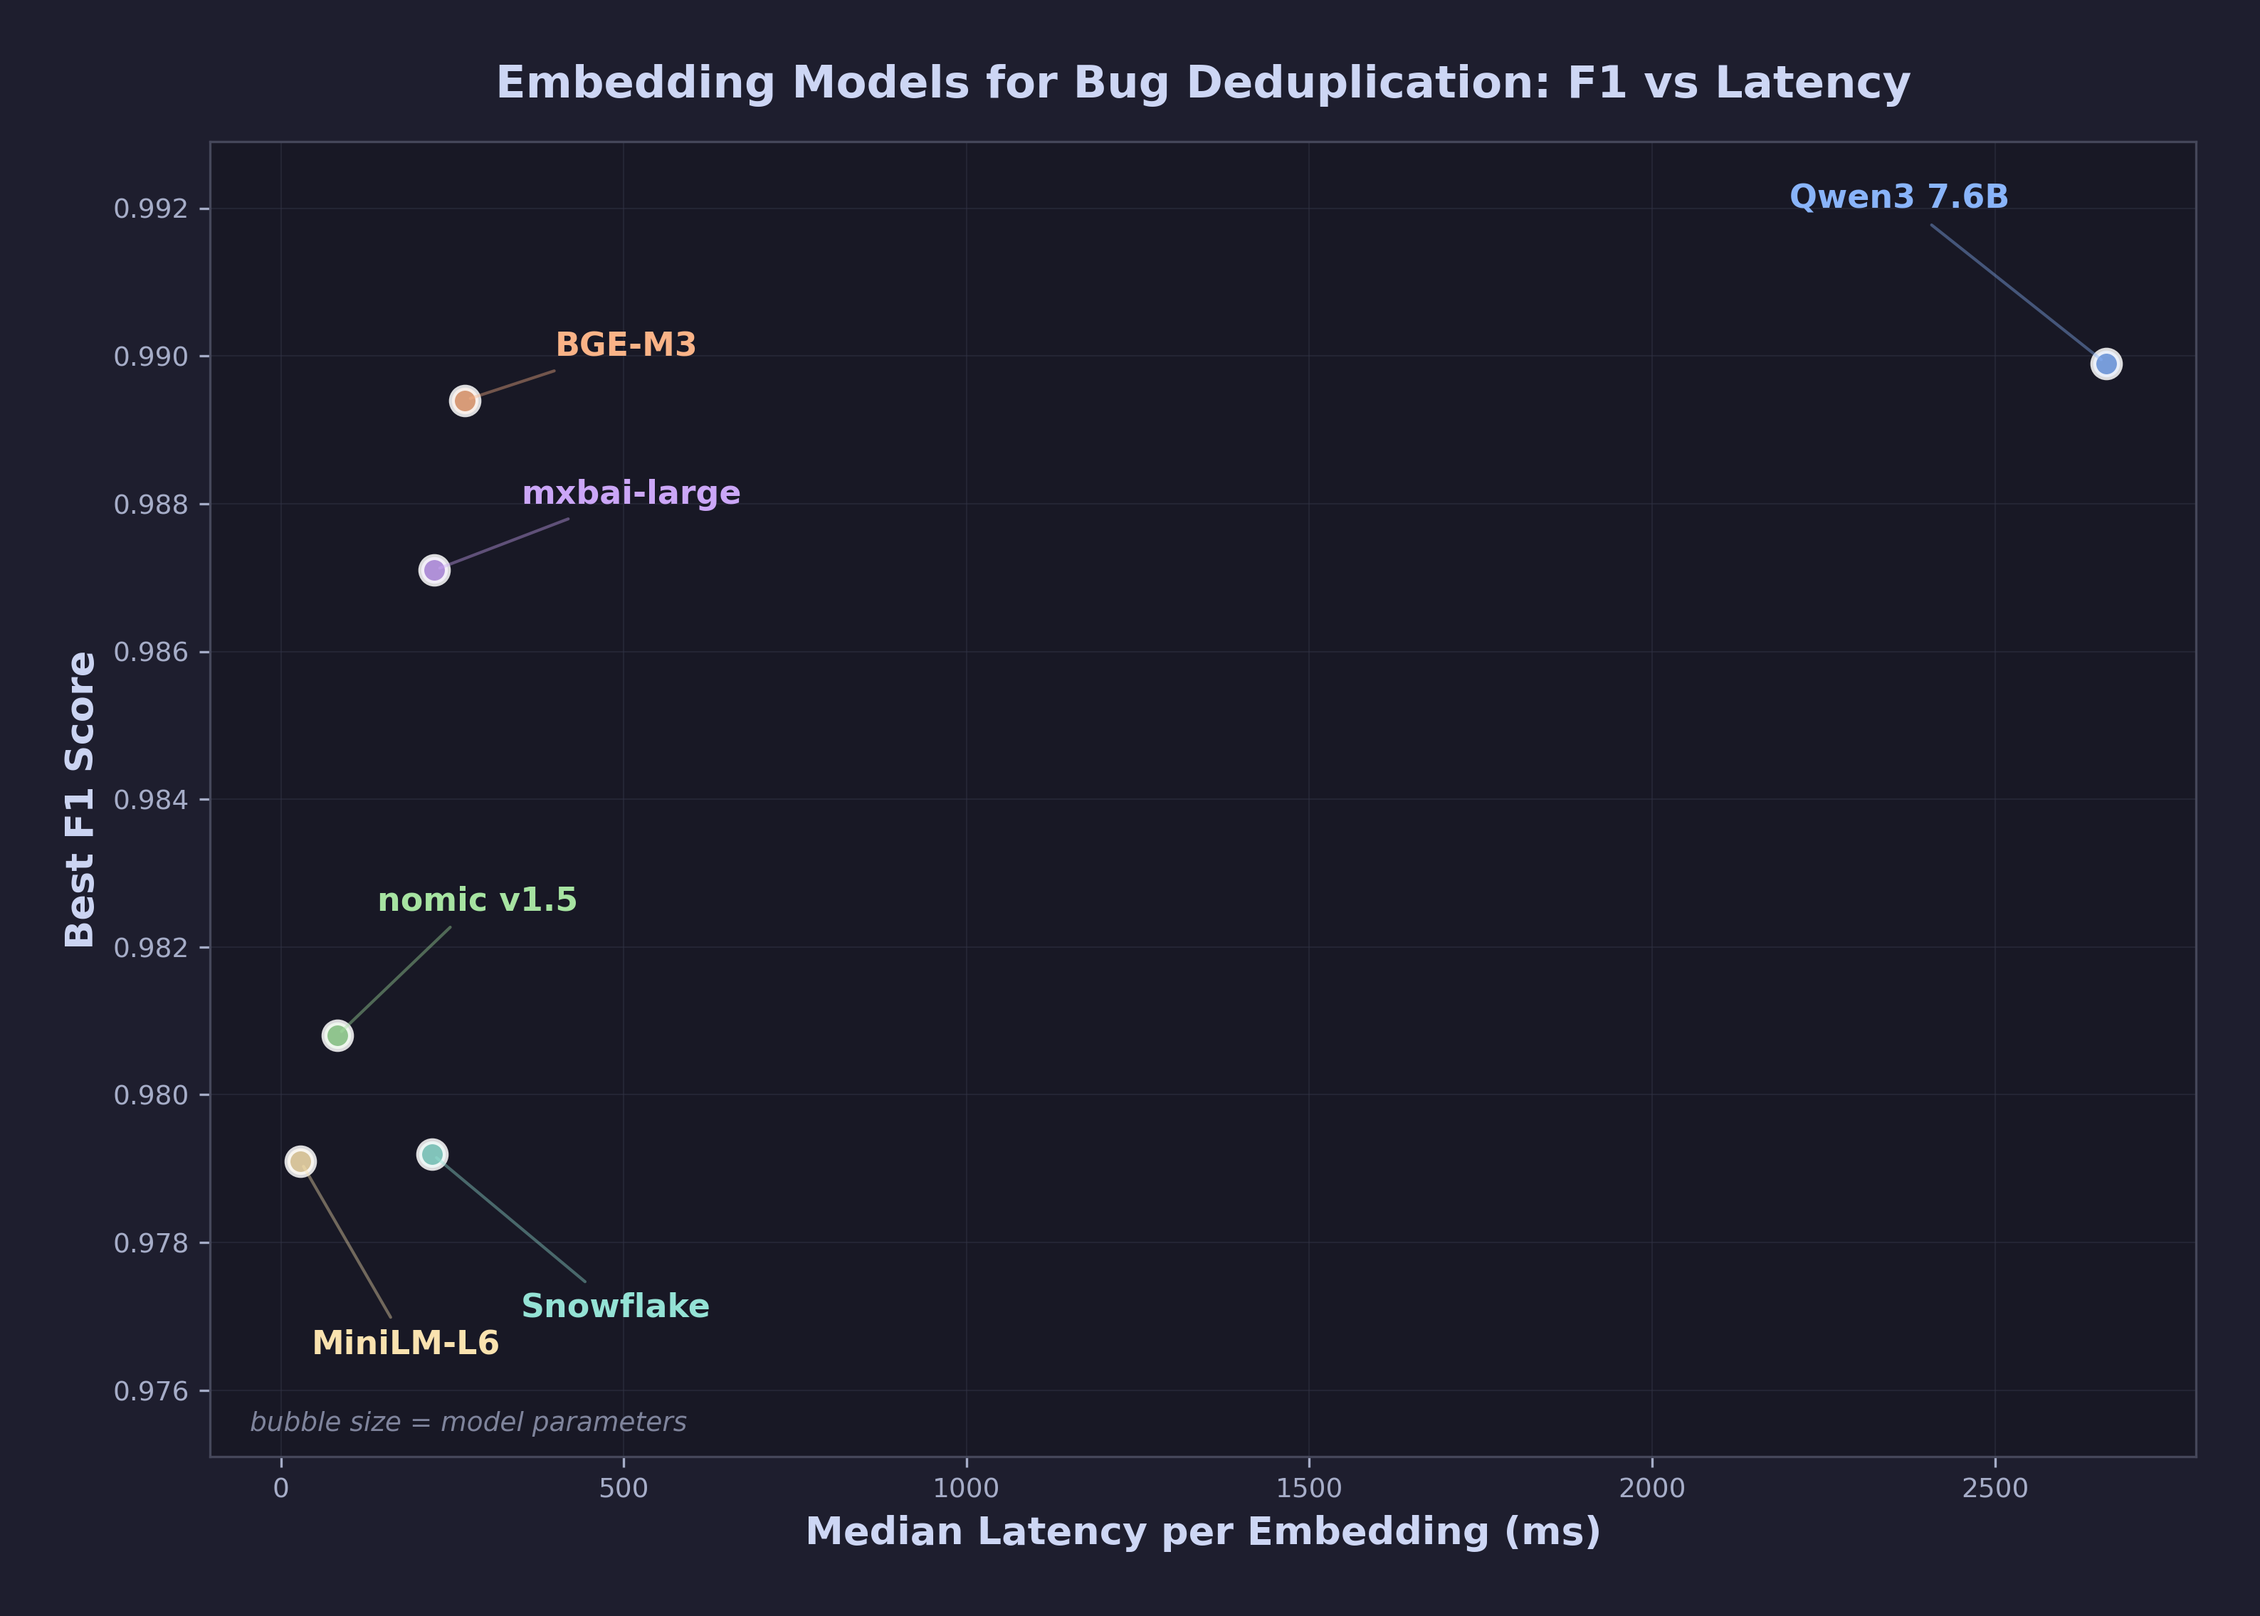
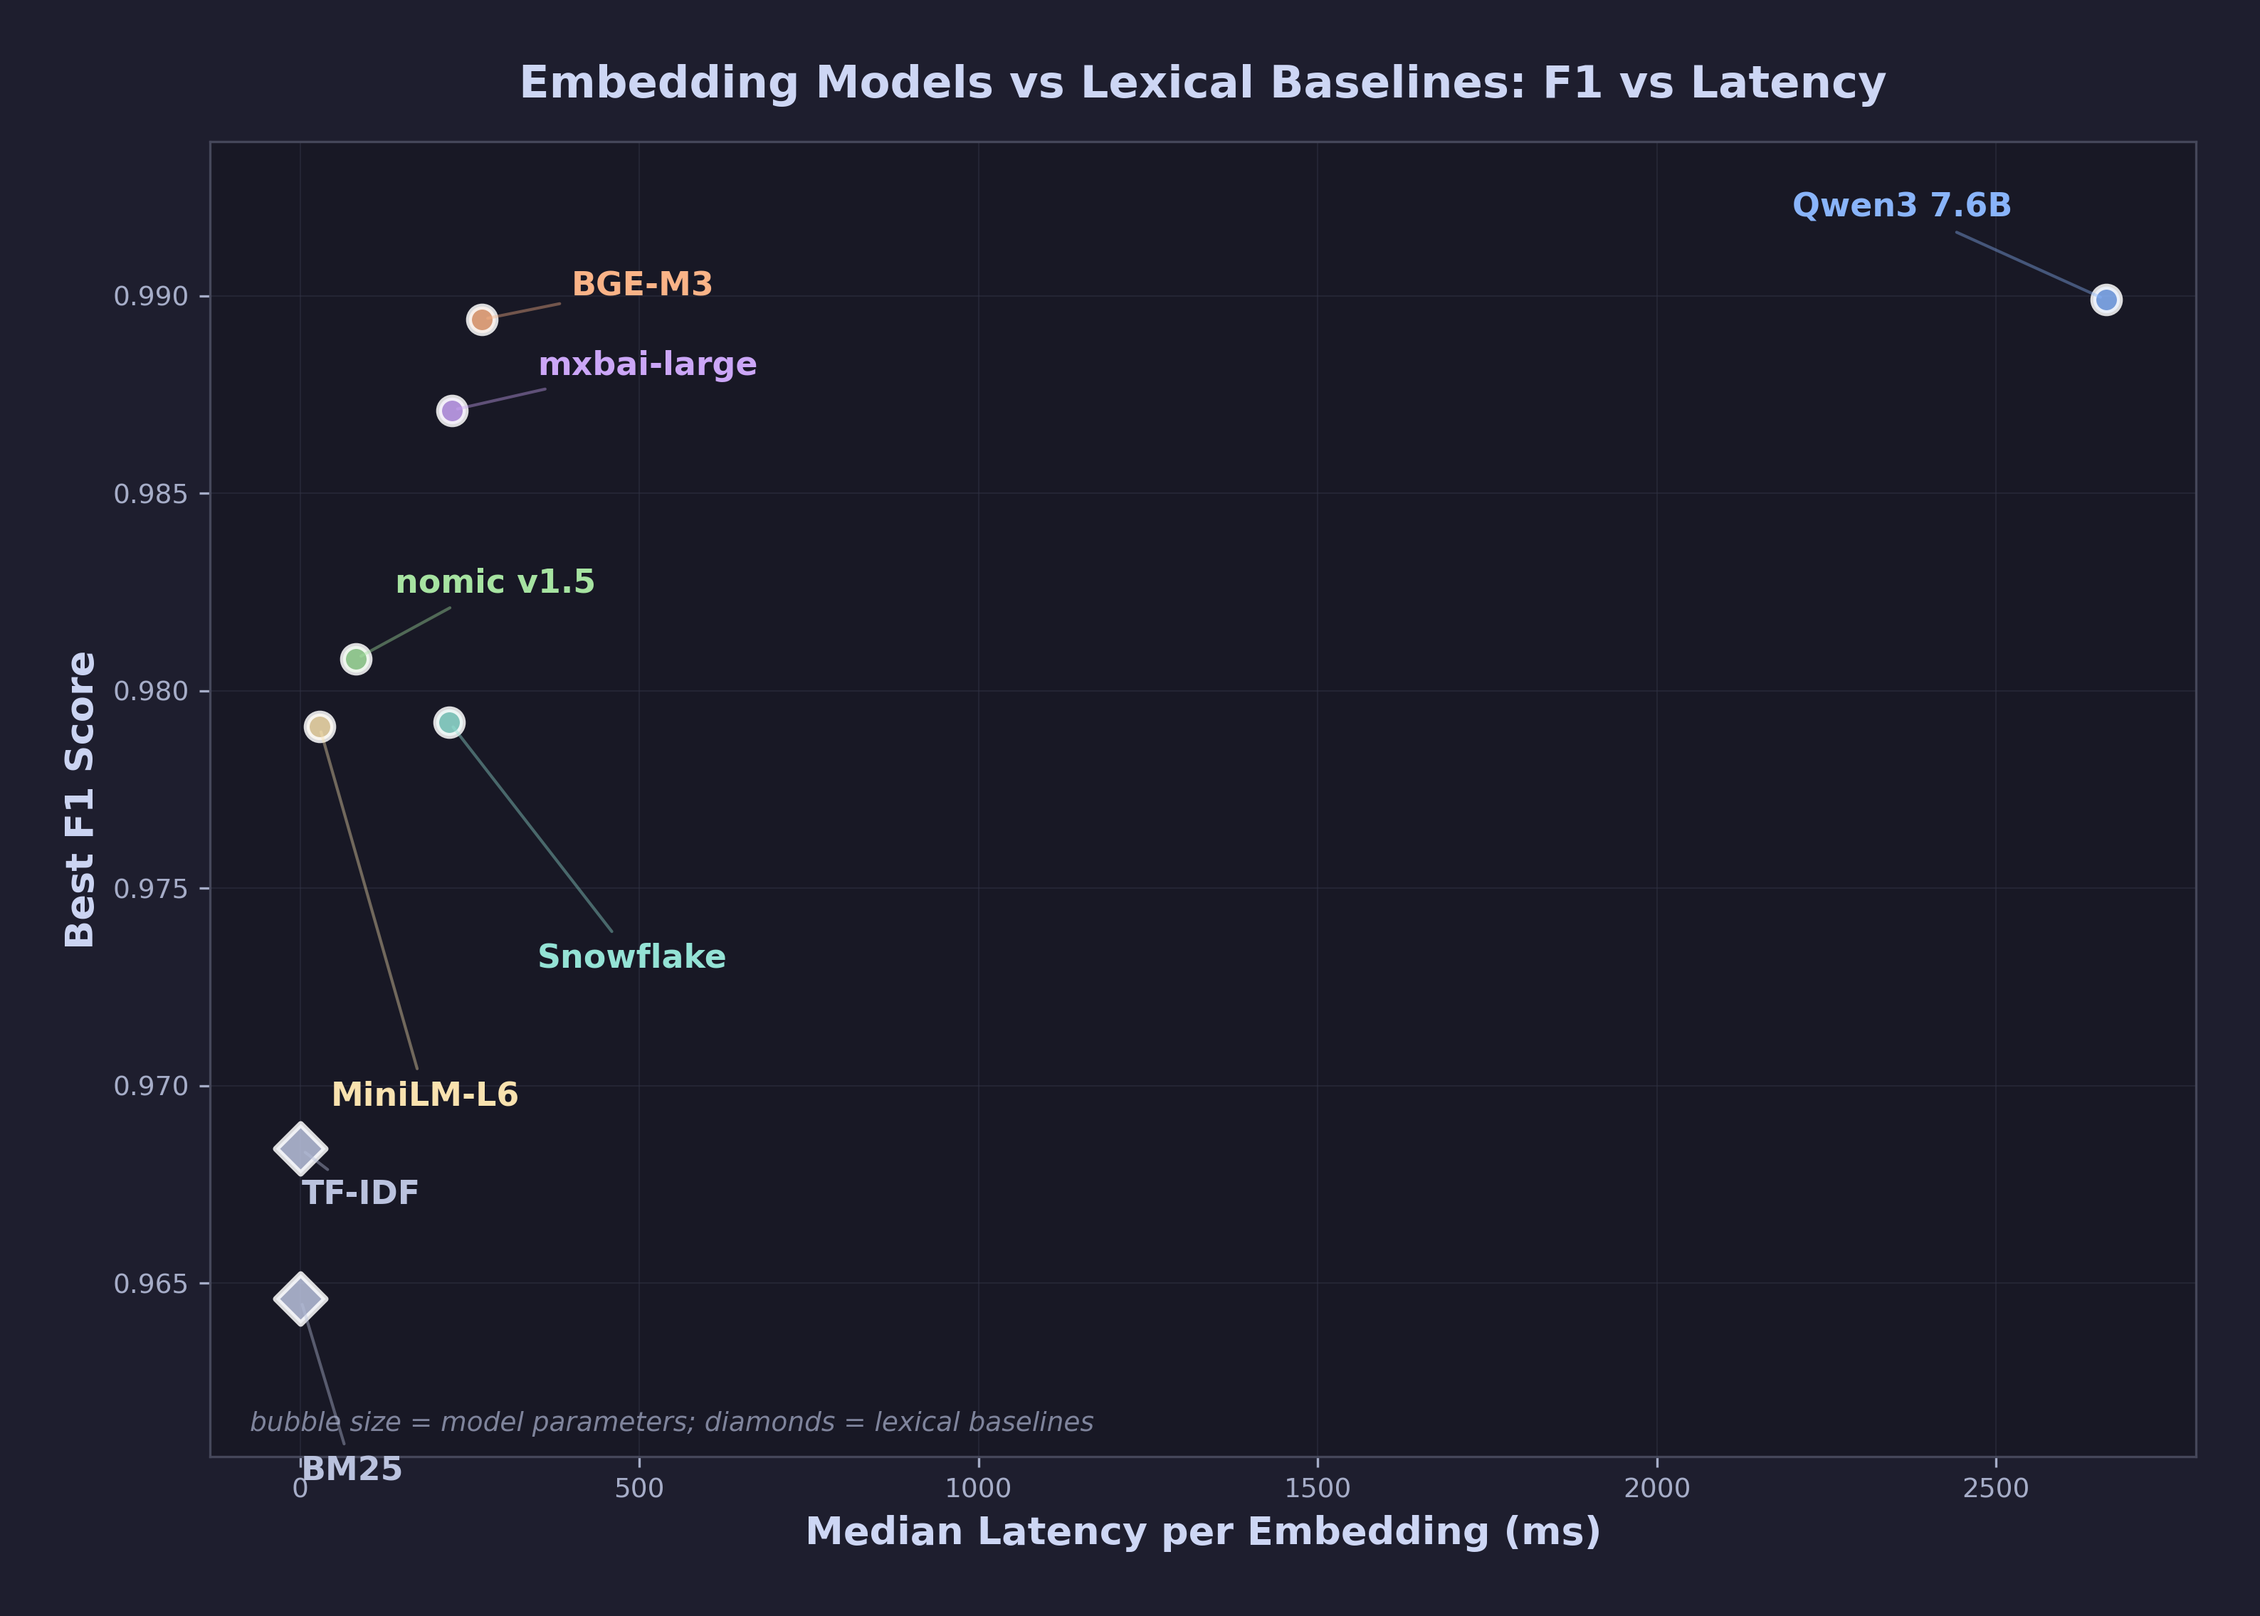
figures: add BM25/TF-IDF to hero scatter + new fig_14 Bugzilla ranking
The v4 article's BM25-on-Bugzilla finding was completely invisible
in the figures — all charts were embedding-only. Two updates:

- fig_01 hero scatter: adds BM25 (0.965) and TF-IDF (0.969) as
  diamond markers at ~1ms latency. Makes the "lexical is
  competitive at 1000x less cost" claim visible on the hero chart.

- fig_14 (new): horizontal bar chart of all 8 methods ranked by
  Bugzilla F1. BM25 sits at #3, with a dashed line showing that
  4 of 6 embedding models fall below it.

Hero PNG in docs/ also refreshed to match.

diff --git a/analysis/fig_14_bugzilla_ranking.py b/analysis/fig_14_bugzilla_ranking.py
@@ -1,0 +1,113 @@
+"""
+Fig 14. Bugzilla F1 ranking — all 8 methods (6 embeddings + BM25 + TF-IDF) on Mozilla Bugzilla.
+
+Headline finding: BM25 scores 0.954 on Bugzilla, beating 4 of 6 embedding models.
+"""
+
+import csv
+import sys
+import os
+
+sys.path.insert(0, os.path.dirname(__file__))
+from plot_config import setup_theme, save_fig, model_display_name, model_color, MOCHA
+
+import matplotlib.pyplot as plt
+
+
+def main():
+    setup_theme()
+
+    rows = []
+
+    # Load embedding Bugzilla F1s
+    emb_path = "results/raw/bugzilla_summary.csv"
+    if not os.path.exists(emb_path):
+        print(f"Missing {emb_path}. Run bugzilla_validation.py first.")
+        return
+    with open(emb_path) as f:
+        for r in csv.DictReader(f):
+            rows.append({
+                "model": r["model"],
+                "f1": float(r["oracle_f1"]),
+                "kind": "embedding",
+            })
+
+    # Load BM25/TF-IDF Bugzilla F1s
+    bm25_path = "results/raw/bugzilla_bm25_summary.csv"
+    if os.path.exists(bm25_path):
+        with open(bm25_path) as f:
+            for r in csv.DictReader(f):
+                rows.append({
+                    "model": r["model"],
+                    "f1": float(r["oracle_f1"]),
+                    "kind": "baseline",
+                })
+    else:
+        print(f"Warning: {bm25_path} missing — run benchmark/bm25_bugzilla.py first.")
+
+    # Sort by F1 descending
+    rows.sort(key=lambda r: r["f1"], reverse=True)
+
+    # Display labels
+    BASELINE_DISPLAY = {"tfidf_baseline": "TF-IDF", "bm25_baseline": "BM25"}
+
+    def display_name(model, kind):
+        if kind == "baseline":
+            return BASELINE_DISPLAY.get(model, model)
+        return model_display_name(model)
+
+    def color_for(model, kind):
+        if kind == "baseline":
+            return MOCHA["subtext1"]  # light gray for lexical baselines
+        return model_color(model)
+
+    labels = [display_name(r["model"], r["kind"]) for r in rows]
+    f1s = [r["f1"] for r in rows]
+    colors = [color_for(r["model"], r["kind"]) for r in rows]
+
+    fig, ax = plt.subplots(figsize=(11, 6.5))
+
+    y_positions = list(range(len(rows)))[::-1]  # reverse so top F1 is at top
+    bars = ax.barh(y_positions, f1s, color=colors, alpha=0.9,
+                    edgecolor="white", linewidth=1.5)
+
+    # F1 value labels at bar ends
+    for i, (y, f1, r) in enumerate(zip(y_positions, f1s, rows)):
+        label_style = dict(va="center", fontsize=11, fontweight="bold")
+        # Hollow arrow/suffix for baselines to mark them visually
+        suffix = "  ◆" if r["kind"] == "baseline" else ""
+        ax.text(f1 + 0.002, y, f"{f1:.3f}{suffix}",
+                color=color_for(r["model"], r["kind"]), **label_style)
+
+    ax.set_yticks(y_positions)
+    ax.set_yticklabels(labels, fontsize=12, fontweight="bold")
+    ax.set_xlabel("F1 on Mozilla Bugzilla (350 labeled pairs)",
+                  fontsize=12, fontweight="bold")
+    ax.set_xlim(0.85, 1.00)
+    ax.set_title("Cross-Validation on Mozilla Bugzilla: All Methods Ranked",
+                 fontsize=14, fontweight="bold", pad=15)
+
+    # Subtitle note explaining the baseline marker
+    ax.annotate("◆ = lexical baseline (BM25, TF-IDF) — no model, no infrastructure",
+                xy=(0.02, -0.14), xycoords="axes fraction",
+                fontsize=10, color=MOCHA["overlay1"], style="italic")
+
+    # Horizontal "break-even" annotation: where does BM25 sit relative to embeddings?
+    bm25_f1 = next((r["f1"] for r in rows if r["model"] == "bm25_baseline"), None)
+    if bm25_f1 is not None:
+        ax.axvline(bm25_f1, color=MOCHA["subtext1"], linestyle="--",
+                   alpha=0.35, linewidth=1, zorder=1)
+        ax.annotate(
+            "BM25 baseline — beats 4 of 6 embedding models",
+            xy=(bm25_f1, len(rows) - 0.5),
+            xytext=(bm25_f1 - 0.022, len(rows) - 0.3),
+            fontsize=9, color=MOCHA["subtext1"], style="italic",
+            ha="center",
+        )
+
+    plt.tight_layout()
+    save_fig(fig, "fig_14_bugzilla_ranking")
+
+
+if __name__ == "__main__":
+    main()

diff --git a/analysis/fig_01_hero_scatter.py b/analysis/fig_01_hero_scatter.py
@@ -63,8 +63,8 @@ def main():
     # Fixed label positions (in data coords) to avoid all overlaps
     # Format: model_key -> (label_x, label_y)
     LABEL_POSITIONS = {
-        "all-minilm": (45, 0.9765),
-        "snowflake-arctic-embed": (350, 0.9770),
+        "all-minilm": (45, 0.9695),
+        "snowflake-arctic-embed": (350, 0.9730),
         "nomic-embed-text": (140, 0.9825),
         "mxbai-embed-large": (350, 0.9880),
         "bge-m3": (400, 0.9900),
@@ -98,18 +98,51 @@ def main():
                         textcoords="offset points", xytext=(14, 10),
                         fontsize=11, fontweight="bold", color=color)
 
-    # Zoom Y-axis to show differences clearly
+    # === Add lexical baselines (BM25, TF-IDF) from bm25_summary.csv ===
+    bm25_path = "results/raw/bm25_summary.csv"
+    baseline_points = []
+    if os.path.exists(bm25_path):
+        with open(bm25_path) as f:
+            for row in csv.DictReader(f):
+                if row["model"] in ("tfidf_baseline", "bm25_baseline"):
+                    baseline_points.append((row["model"], float(row["best_f1"])))
+
+    # Place baselines at fixed small latency (~0.5ms) for plotting
+    # (actual latency is <1ms, script reports it as <1ms in the table)
+    BASELINE_LATENCY = 0.6
+    BASELINE_COLOR = MOCHA["subtext1"]  # light gray, distinct from embedding colors
+    BASELINE_LABELS = {
+        "tfidf_baseline": ("TF-IDF", (2.0, 0.967)),
+        "bm25_baseline": ("BM25", (1.3, 0.960)),
+    }
+
+    for model, f1 in baseline_points:
+        ax.scatter(BASELINE_LATENCY, f1, s=140, c=BASELINE_COLOR,
+                   alpha=0.85, edgecolors="white", linewidths=2,
+                   marker="D",  # diamond — distinct from embedding circles
+                   zorder=5)
+        display_name, lpos = BASELINE_LABELS.get(model, (model, None))
+        if lpos:
+            ax.annotate(display_name, (BASELINE_LATENCY, f1),
+                        xytext=lpos, fontsize=11, fontweight="bold",
+                        color=BASELINE_COLOR,
+                        arrowprops=dict(arrowstyle="-", color=BASELINE_COLOR, alpha=0.4, lw=1),
+                        zorder=6)
+
+    # Zoom Y-axis to show differences — now include baselines in range
     f1_values = [float(r["best_f1"]) for r in rows]
+    f1_values += [f1 for _, f1 in baseline_points]
     y_min = min(f1_values) - 0.004
-    y_max = max(f1_values) + 0.003
+    y_max = max(f1_values) + 0.004
     ax.set_ylim(y_min, y_max)
 
     ax.set_xlabel("Median Latency per Embedding (ms)", fontsize=13, fontweight="bold")
     ax.set_ylabel("Best F1 Score", fontsize=13, fontweight="bold")
-    ax.set_title("Embedding Models for Bug Deduplication: F1 vs Latency",
+    ax.set_title("Embedding Models vs Lexical Baselines: F1 vs Latency",
                  fontsize=15, fontweight="bold", pad=15)
 
-    ax.annotate("bubble size = model parameters", xy=(0.02, 0.02),
+    ax.annotate("bubble size = model parameters; diamonds = lexical baselines",
+                xy=(0.02, 0.02),
                 xycoords="axes fraction", fontsize=9, color=MOCHA["overlay1"],
                 style="italic")
 
